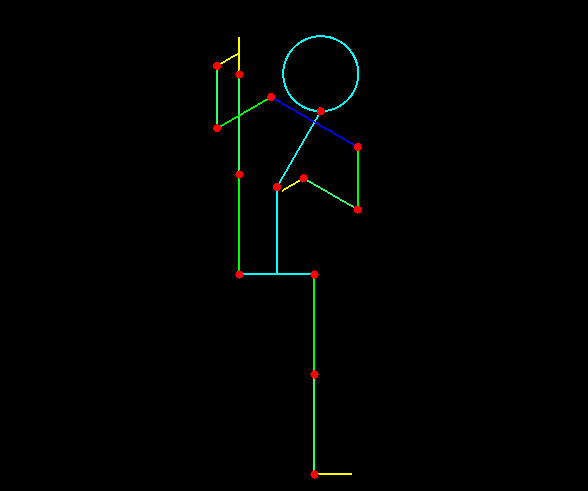
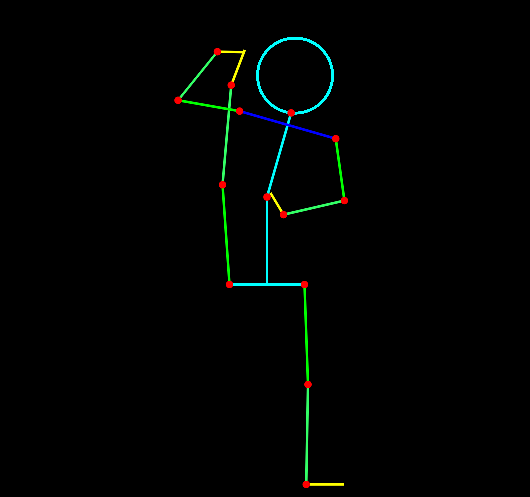
menor angulo

Changed region(s): [[0.3321, 0.0611, 0.6642, 1.0]]

diff --git a/main.cpp b/main.cpp
@@ -17,7 +17,7 @@ float   rotT=0.0,rotC=0.0,   //Torso, cabeza
         rotPi=0.0,rotPd=0.0, //pierna
         rotRi=0.0,rotRd=0.0, //rodilla
         rotTi=0.0,rotTd=0.0, //tobillo
-        ang = 30.0;          //angulo
+        ang = 1.0;          //angulo
 
 char    area;
 
@@ -59,7 +59,7 @@ void changeColor(){
 //  DIBUJA CIRCUNFERENCIA
 void drawCircle(float px, float py, float radio) {
     float x,y;
-    glPointSize(2.0);
+    glPointSize(3.0);
     glBegin(GL_POINTS);
         for(double i=0.0; i<10; i+=0.001){
             x=radio*cos(i)+px;
@@ -199,11 +199,16 @@ void render(){
     glClear(GL_COLOR_BUFFER_BIT | GL_DEPTH_BUFFER_BIT);
     glMatrixMode(GL_MODELVIEW);
     glLoadIdentity();
+    glEnable(GL_BLEND);
+    glBlendFunc(GL_SRC_ALPHA, GL_ONE_MINUS_SRC_ALPHA);
+    glEnable(GL_LINE_SMOOTH);
+    glEnable(GL_POINT_SMOOTH); 
+    glHint(GL_LINE_SMOOTH_HINT, GL_NICEST);
+
     GLfloat zExtent, xExtent, xLocal, zLocal;
     int loopX, loopZ;
 
     glTranslatef(0.0,-1.5,0.0); 
-    glEnable(GL_POINT_SMOOTH); //para puntos redondos
 
     // Parte inferior del cuerpo
     glBegin(GL_LINES);
@@ -295,7 +300,7 @@ int main (int argc, char** argv) {
     glutReshapeFunc(changeViewport);
 
     initializeColor();
-    glLineWidth(2.0);
+    glLineWidth(3.0);
     glutDisplayFunc(render);
 
     glutKeyboardFunc(controlKey);
